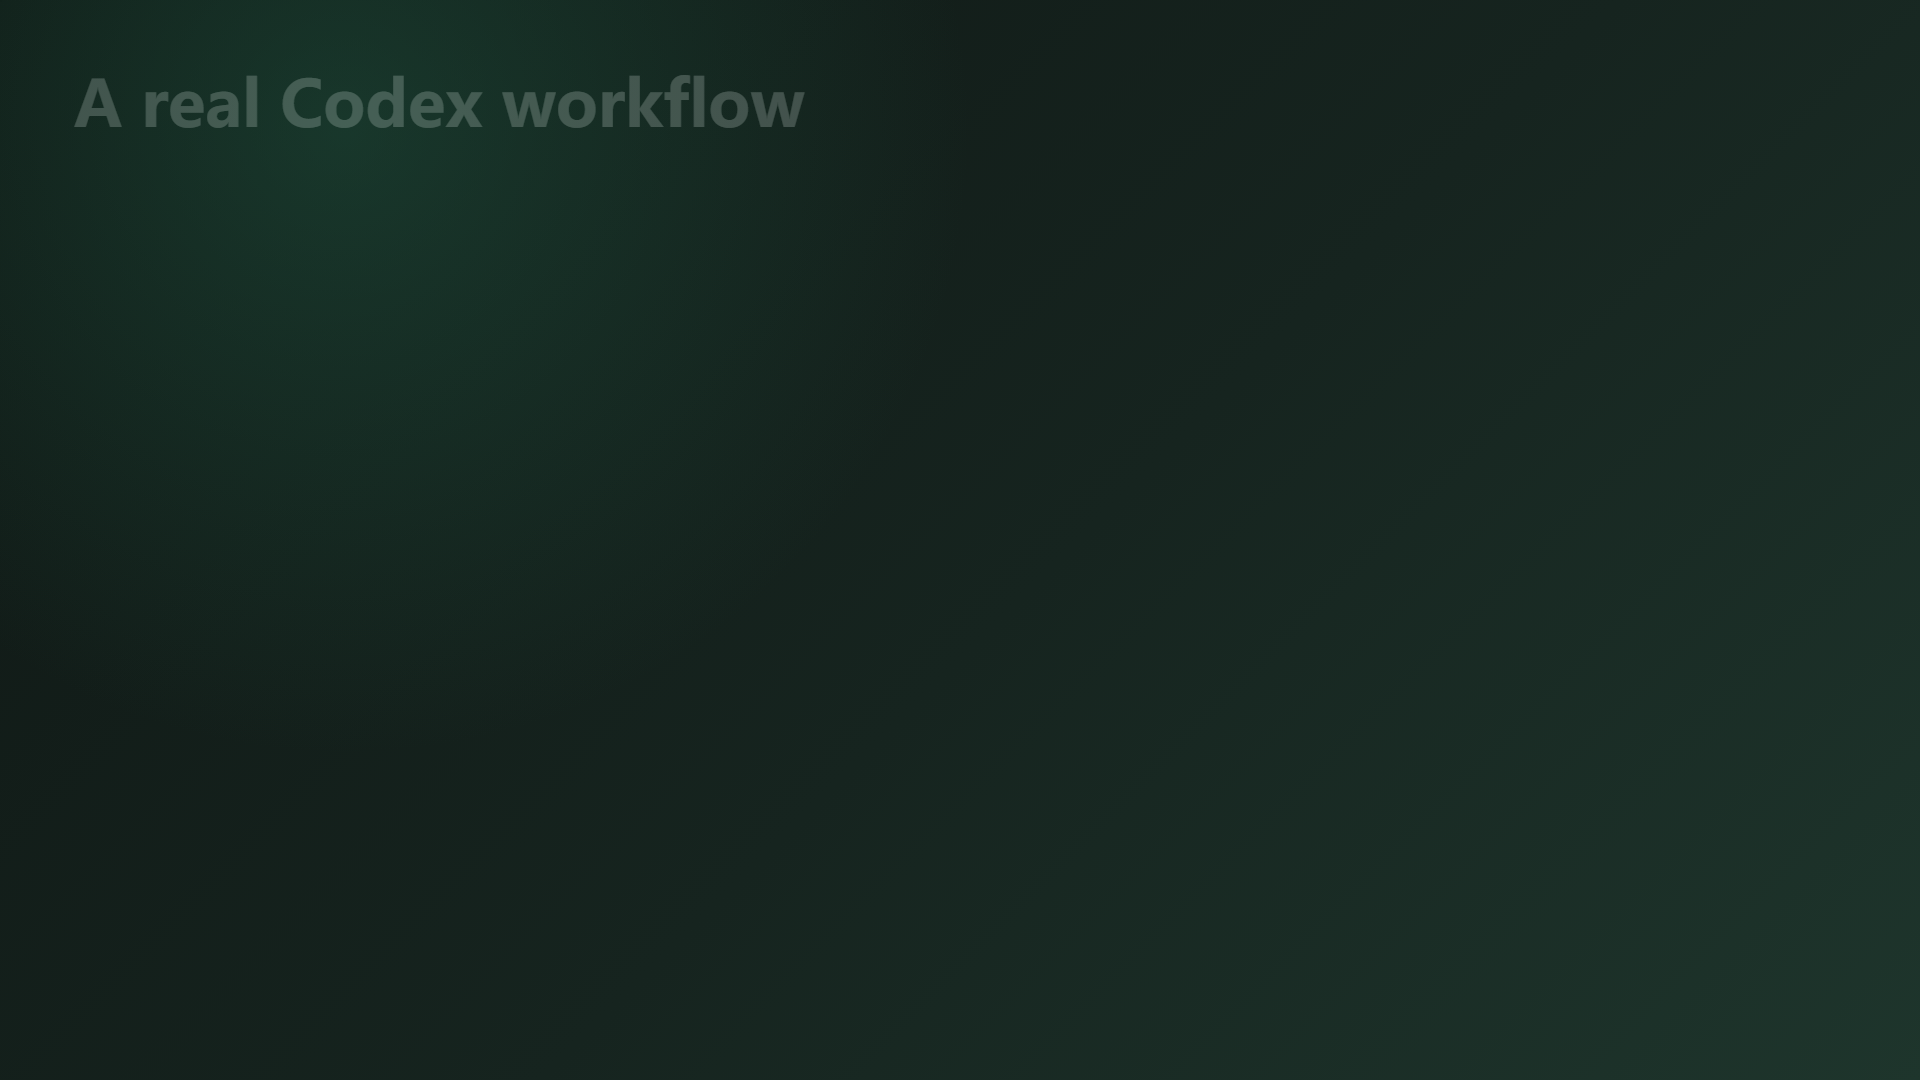
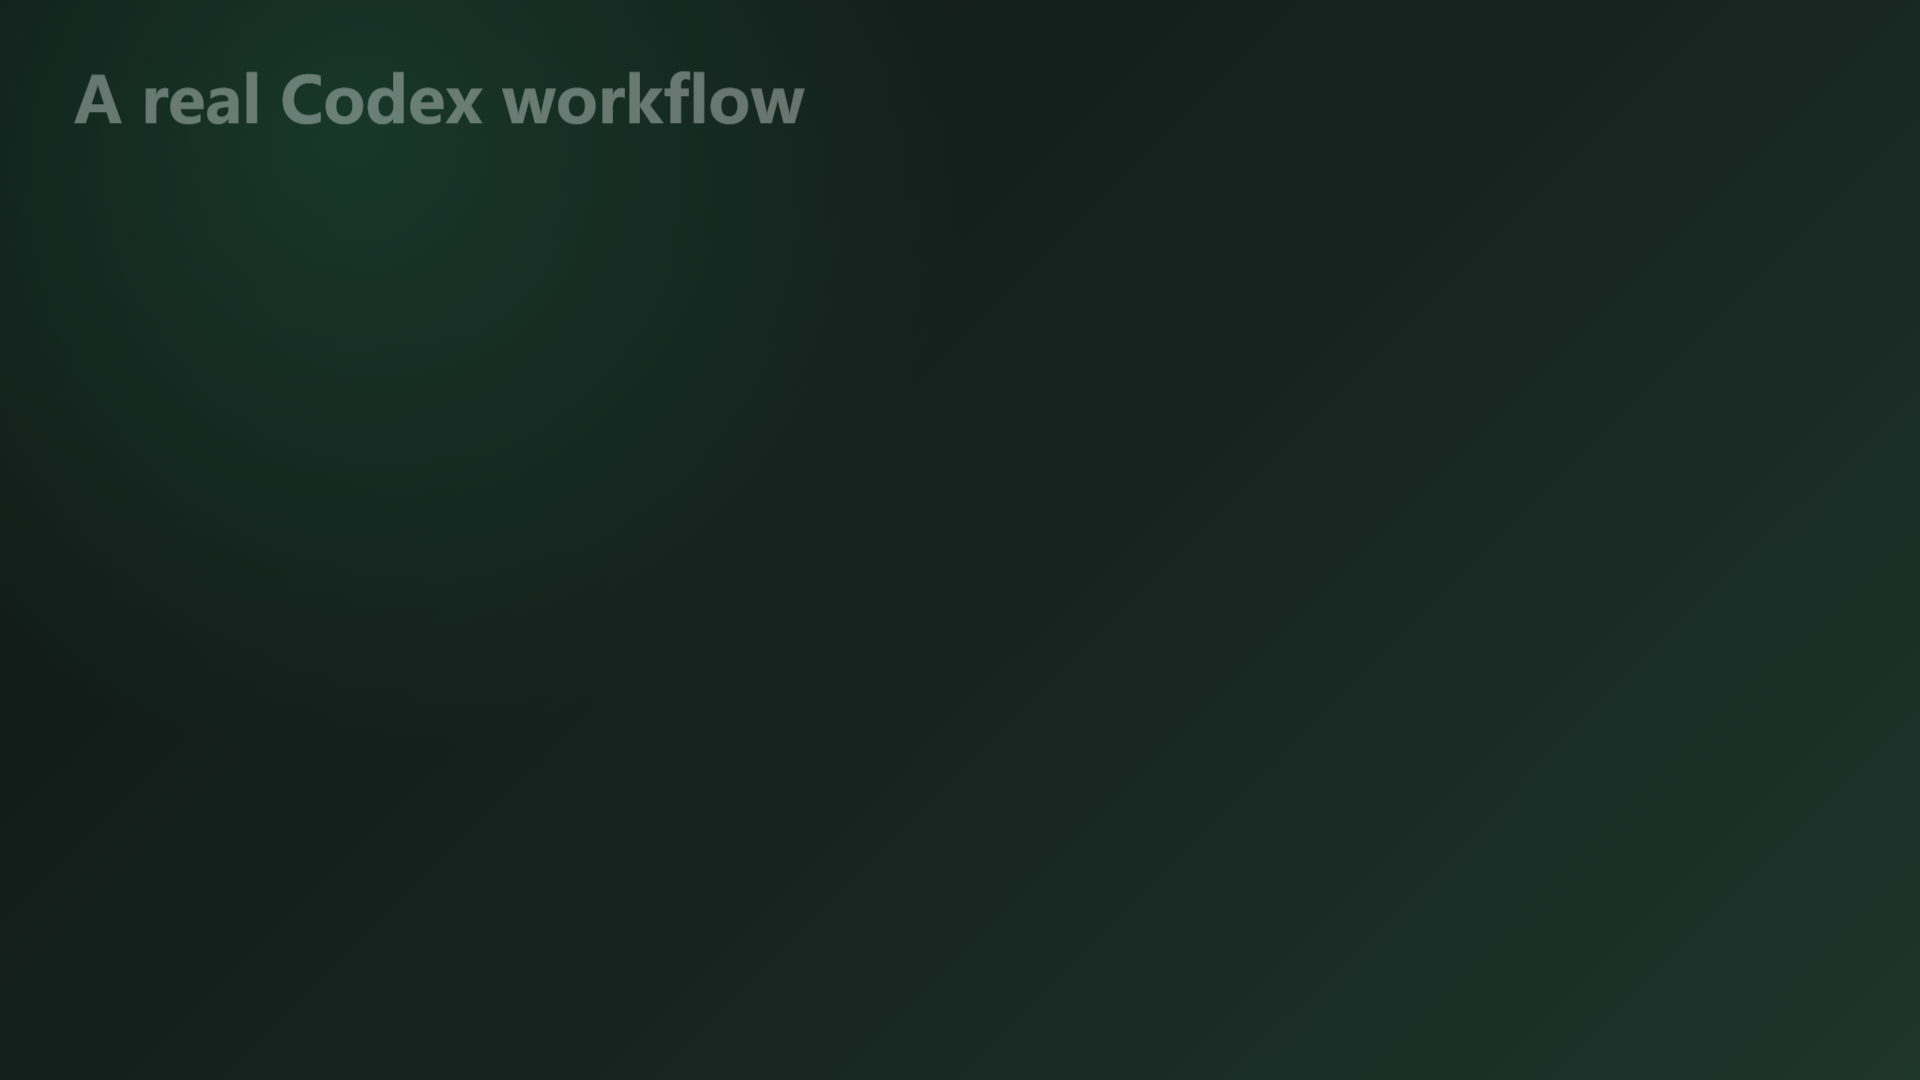
assets(ui2v-motions): replace preview set with richer frames
- old set had near-monochrome captures (12-14 unique colors)
- batch-captured 45 standalone candidates, dual-scored (size + color diversity)
- new set: hero-badge-earn / codex-workflow / agent-screenflow / claw-game-release /
  hero-deploy-pipeline / hero-chat-bubbles (+ barcode in skill README), 30-81 colors

Changed region(s): [[0.0312, 0.0611, 0.4375, 0.1222]]

diff --git a/README.md b/README.md
@@ -581,20 +581,20 @@ Links: [README](./skills/swiss-shot-demos/README.md) · [SKILL.md](./skills/swis
 
 <table>
 <tr>
-<td align="center" width="16.6%"><a href="./skills/ui2v-motions/01_动效库/itelmn/cartoon00/index.html"><img width="2560" height="1440" alt="cartoon00" src="./skills/ui2v-motions/assets-preview/shot-cartoon.png" /></a></td>
-<td align="center" width="16.6%"><a href="./skills/ui2v-motions/01_动效库/itelmn/agent-immune-codex-workflow/index.html"><img width="2560" height="1440" alt="workflow" src="./skills/ui2v-motions/assets-preview/shot-workflow.png" /></a></td>
-<td align="center" width="16.6%"><a href="./skills/ui2v-motions/01_动效库/itelmn/03-postgres/index.html"><img width="2560" height="1440" alt="postgres" src="./skills/ui2v-motions/assets-preview/shot-pg.png" /></a></td>
-<td align="center" width="16.6%"><a href="./skills/ui2v-motions/01_动效库/itelmn/06-tres-caminos/index.html"><img width="2560" height="1440" alt="tres caminos" src="./skills/ui2v-motions/assets-preview/shot-paths.png" /></a></td>
-<td align="center" width="16.6%"><a href="./skills/ui2v-motions/01_动效库/itelmn/02-archivero/index.html"><img width="2560" height="1440" alt="archivero" src="./skills/ui2v-motions/assets-preview/shot-arch.png" /></a></td>
-<td align="center" width="16.6%"><a href="./skills/ui2v-motions/01_动效库/itelmn/04b-frontera/index.html"><img width="2560" height="1440" alt="frontera" src="./skills/ui2v-motions/assets-preview/shot-border.png" /></a></td>
+<td align="center" width="16.6%"><a href="./skills/ui2v-motions/01_动效库/itelmn/hero-badge-earn/index.html"><img width="2560" height="1440" alt="badge earn" src="./skills/ui2v-motions/assets-preview/shot-badge.png" /></a></td>
+<td align="center" width="16.6%"><a href="./skills/ui2v-motions/01_动效库/itelmn/agent-immune-codex-workflow/index.html"><img width="2560" height="1440" alt="workflow" src="./skills/ui2v-motions/assets-preview/main.png" /></a></td>
+<td align="center" width="16.6%"><a href="./skills/ui2v-motions/01_动效库/itelmn/agent-immune-screenflow/index.html"><img width="2560" height="1440" alt="screenflow" src="./skills/ui2v-motions/assets-preview/shot-screenflow.png" /></a></td>
+<td align="center" width="16.6%"><a href="./skills/ui2v-motions/01_动效库/itelmn/claw-game-release/index.html"><img width="2560" height="1440" alt="game release" src="./skills/ui2v-motions/assets-preview/shot-release.png" /></a></td>
+<td align="center" width="16.6%"><a href="./skills/ui2v-motions/01_动效库/itelmn/hero-deploy-pipeline/index.html"><img width="2560" height="1440" alt="deploy pipeline" src="./skills/ui2v-motions/assets-preview/shot-pipeline.png" /></a></td>
+<td align="center" width="16.6%"><a href="./skills/ui2v-motions/01_动效库/itelmn/hero-chat-bubbles/index.html"><img width="2560" height="1440" alt="chat bubbles" src="./skills/ui2v-motions/assets-preview/shot-chat.png" /></a></td>
 </tr>
 <tr>
-<td align="center"><sub><code>cartoon00</code><br />插画编排</sub></td>
+<td align="center"><sub><code>hero-badge-earn</code><br />徽章赢得动画</sub></td>
 <td align="center"><sub><code>codex-workflow</code><br />工作流编排</sub></td>
-<td align="center"><sub><code>03-postgres</code><br />数据图解</sub></td>
-<td align="center"><sub><code>tres-caminos</code><br />三路分支</sub></td>
-<td align="center"><sub><code>archivero</code><br />档案列表</sub></td>
-<td align="center"><sub><code>frontera</code><br />边界示意</sub></td>
+<td align="center"><sub><code>agent-screenflow</code><br />屏幕流演示</sub></td>
+<td align="center"><sub><code>claw-game-release</code><br />发布封面动画</sub></td>
+<td align="center"><sub><code>hero-deploy-pipeline</code><br />部署管线流动</sub></td>
+<td align="center"><sub><code>hero-chat-bubbles</code><br />聊天气泡编排</sub></td>
 </tr>
 </table>
 

diff --git a/README_EN.md b/README_EN.md
@@ -581,20 +581,20 @@ Highlights:
 
 <table>
 <tr>
-<td align="center" width="16.6%"><a href="./skills/ui2v-motions/01_动效库/itelmn/cartoon00/index.html"><img width="2560" height="1440" alt="cartoon00" src="./skills/ui2v-motions/assets-preview/shot-cartoon.png" /></a></td>
-<td align="center" width="16.6%"><a href="./skills/ui2v-motions/01_动效库/itelmn/agent-immune-codex-workflow/index.html"><img width="2560" height="1440" alt="workflow" src="./skills/ui2v-motions/assets-preview/shot-workflow.png" /></a></td>
-<td align="center" width="16.6%"><a href="./skills/ui2v-motions/01_动效库/itelmn/03-postgres/index.html"><img width="2560" height="1440" alt="postgres" src="./skills/ui2v-motions/assets-preview/shot-pg.png" /></a></td>
-<td align="center" width="16.6%"><a href="./skills/ui2v-motions/01_动效库/itelmn/06-tres-caminos/index.html"><img width="2560" height="1440" alt="tres caminos" src="./skills/ui2v-motions/assets-preview/shot-paths.png" /></a></td>
-<td align="center" width="16.6%"><a href="./skills/ui2v-motions/01_动效库/itelmn/02-archivero/index.html"><img width="2560" height="1440" alt="archivero" src="./skills/ui2v-motions/assets-preview/shot-arch.png" /></a></td>
-<td align="center" width="16.6%"><a href="./skills/ui2v-motions/01_动效库/itelmn/04b-frontera/index.html"><img width="2560" height="1440" alt="frontera" src="./skills/ui2v-motions/assets-preview/shot-border.png" /></a></td>
+<td align="center" width="16.6%"><a href="./skills/ui2v-motions/01_动效库/itelmn/hero-badge-earn/index.html"><img width="2560" height="1440" alt="badge earn" src="./skills/ui2v-motions/assets-preview/shot-badge.png" /></a></td>
+<td align="center" width="16.6%"><a href="./skills/ui2v-motions/01_动效库/itelmn/agent-immune-codex-workflow/index.html"><img width="2560" height="1440" alt="workflow" src="./skills/ui2v-motions/assets-preview/main.png" /></a></td>
+<td align="center" width="16.6%"><a href="./skills/ui2v-motions/01_动效库/itelmn/agent-immune-screenflow/index.html"><img width="2560" height="1440" alt="screenflow" src="./skills/ui2v-motions/assets-preview/shot-screenflow.png" /></a></td>
+<td align="center" width="16.6%"><a href="./skills/ui2v-motions/01_动效库/itelmn/claw-game-release/index.html"><img width="2560" height="1440" alt="game release" src="./skills/ui2v-motions/assets-preview/shot-release.png" /></a></td>
+<td align="center" width="16.6%"><a href="./skills/ui2v-motions/01_动效库/itelmn/hero-deploy-pipeline/index.html"><img width="2560" height="1440" alt="deploy pipeline" src="./skills/ui2v-motions/assets-preview/shot-pipeline.png" /></a></td>
+<td align="center" width="16.6%"><a href="./skills/ui2v-motions/01_动效库/itelmn/hero-chat-bubbles/index.html"><img width="2560" height="1440" alt="chat bubbles" src="./skills/ui2v-motions/assets-preview/shot-chat.png" /></a></td>
 </tr>
 <tr>
-<td align="center"><sub><code>cartoon00</code><br />illustrated layout</sub></td>
+<td align="center"><sub><code>hero-badge-earn</code><br />badge reveal</sub></td>
 <td align="center"><sub><code>codex-workflow</code><br />workflow choreography</sub></td>
-<td align="center"><sub><code>03-postgres</code><br />data explainer</sub></td>
-<td align="center"><sub><code>tres-caminos</code><br />three-way branch</sub></td>
-<td align="center"><sub><code>archivero</code><br />archive list</sub></td>
-<td align="center"><sub><code>frontera</code><br />boundary sketch</sub></td>
+<td align="center"><sub><code>agent-screenflow</code><br />screen flow demo</sub></td>
+<td align="center"><sub><code>claw-game-release</code><br />release cover</sub></td>
+<td align="center"><sub><code>hero-deploy-pipeline</code><br />pipeline flow</sub></td>
+<td align="center"><sub><code>hero-chat-bubbles</code><br />chat bubbles</sub></td>
 </tr>
 </table>
 
